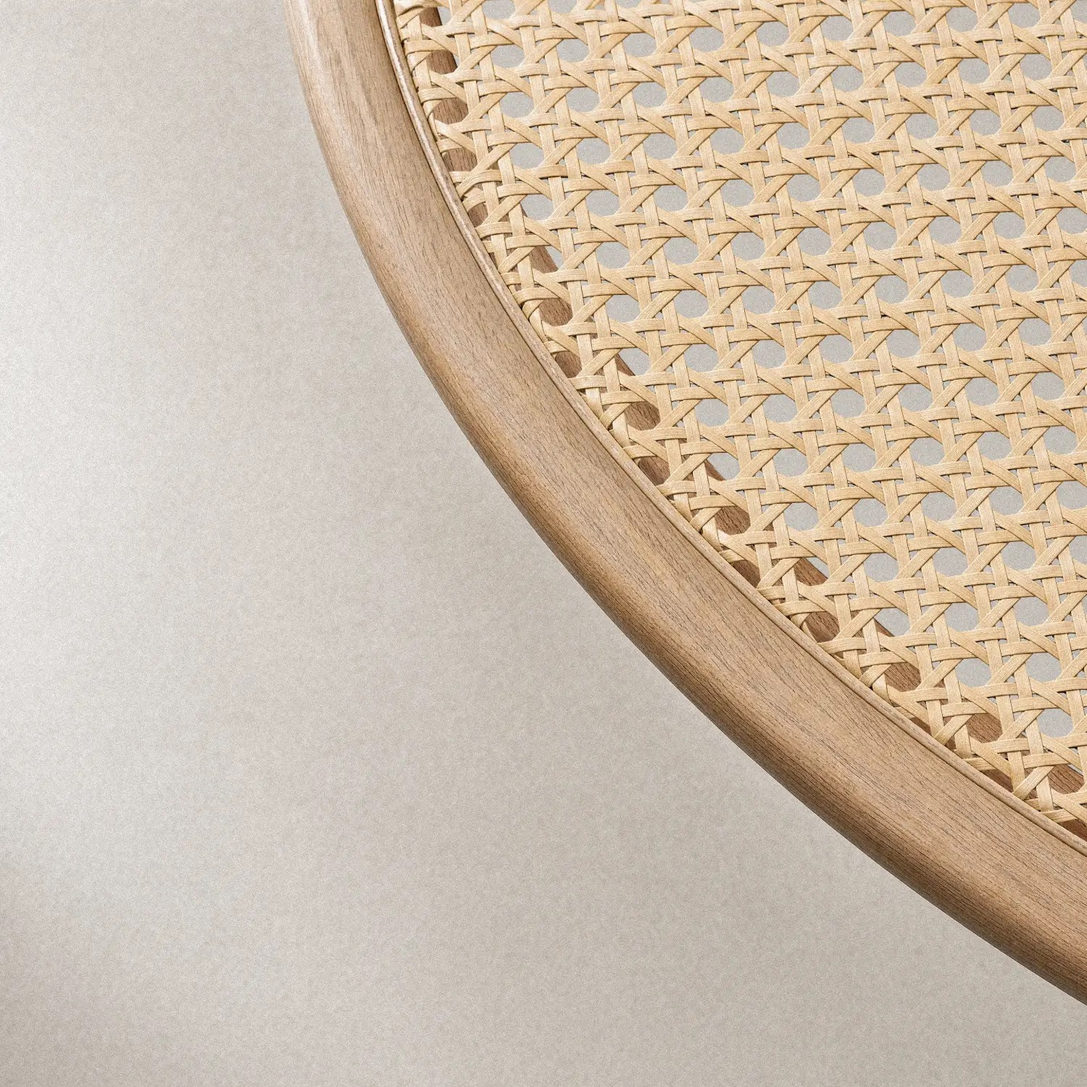
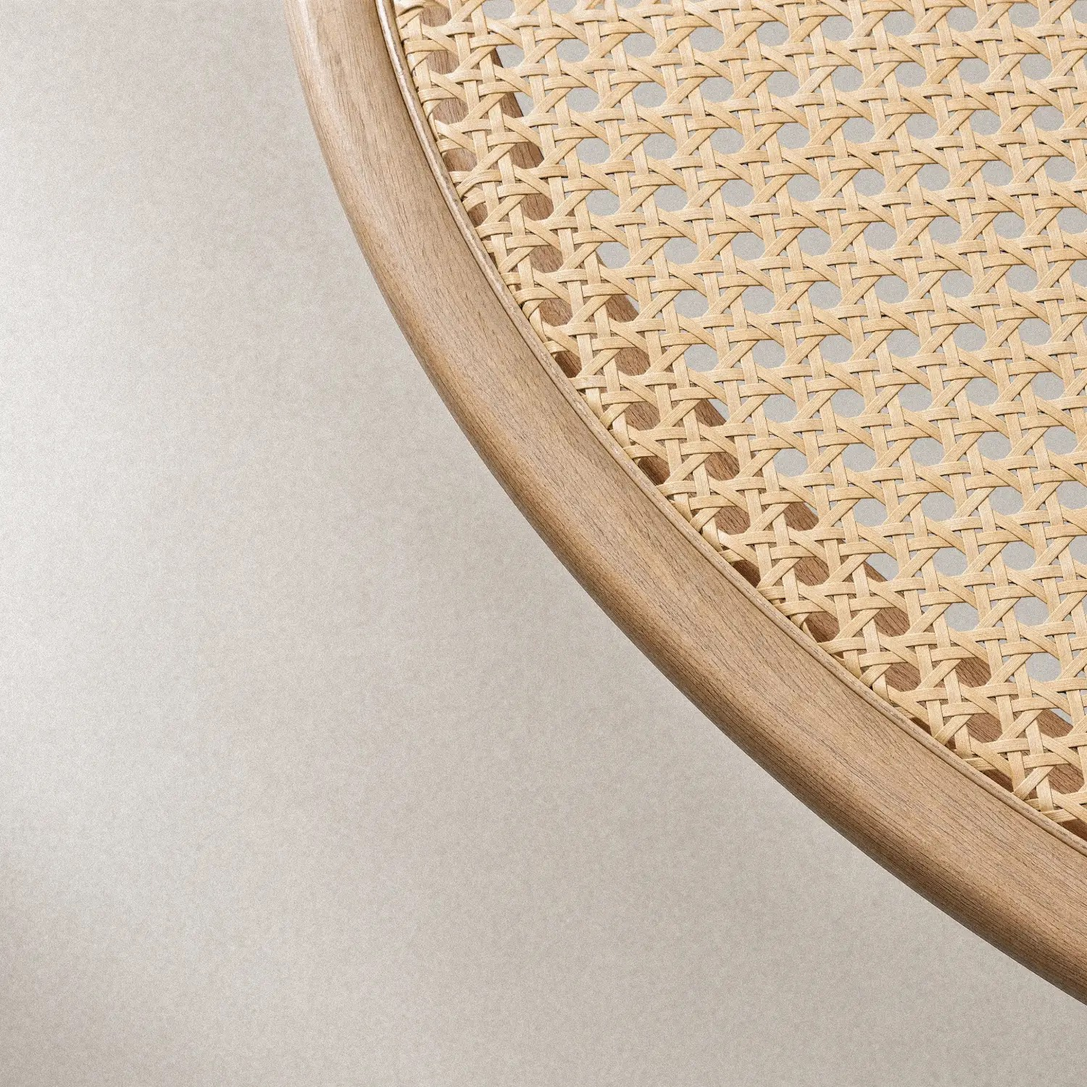
Update Rattan Table detail image and description
New cane weave detail photo, and copy reflecting the Santos project
brief: a low family table for floor-level meals, oak structure with
cane mesh top, inlays evoking a desert rose.

Changed region(s): [[0.368, 0.0, 1.0, 0.7973], [0.644, 0.552, 0.6747, 0.5827], [0.3373, 0.092, 0.368, 0.1227]]

diff --git a/lib/projects-data.tsx b/lib/projects-data.tsx
@@ -472,7 +472,7 @@ export const projectsData: Record<
     year: "2025",
     category: "Furniture Design",
     description:
-      "A low coffee table with a soft, pebble-shaped top in woven cane, divided by fine timber inlays that echo the geometry of the frame. The top rests on two sculpted timber legs, giving the table a grounded, sculptural presence. Materials: solid timber, woven rattan cane.",
+      "A low table designed for the Santos project, made with Qatalyse, to bring the family together at floor level. Conceived as a versatile piece, it works as a center table yet is generous enough to share a meal seated on the floor. The tabletop is woven cane mesh and the structure is oak, with the inlaid lines intended to evoke the intersecting plates of a desert rose. Materials: oak, woven cane mesh.",
     images: [
       { src: "/images/rattan-table.jpg", alt: "Rattan Table - Front View" },
       { src: "/images/rattan-table-top-view.jpg", alt: "Rattan Table - Top View Styled with Lemon Ceramics" },

diff --git a/components/portfolio.tsx b/components/portfolio.tsx
@@ -911,7 +911,7 @@ export default function Portfolio({ initialCategory }: { initialCategory?: strin
     name: "Rattan Table",
     year: "2025",
     description:
-      "A low coffee table with a soft, pebble-shaped top in woven cane, divided by fine timber inlays that echo the geometry of the frame. The top rests on two sculpted timber legs, giving the table a grounded, sculptural presence. Materials: solid timber, woven rattan cane.",
+      "A low table designed for the Santos project, made with Qatalyse, to bring the family together at floor level. Conceived as a versatile piece, it works as a center table yet is generous enough to share a meal seated on the floor. The tabletop is woven cane mesh and the structure is oak, with the inlaid lines intended to evoke the intersecting plates of a desert rose. Materials: oak, woven cane mesh.",
     images: [
       {
         src: "/images/rattan-table-top-view.jpg",
